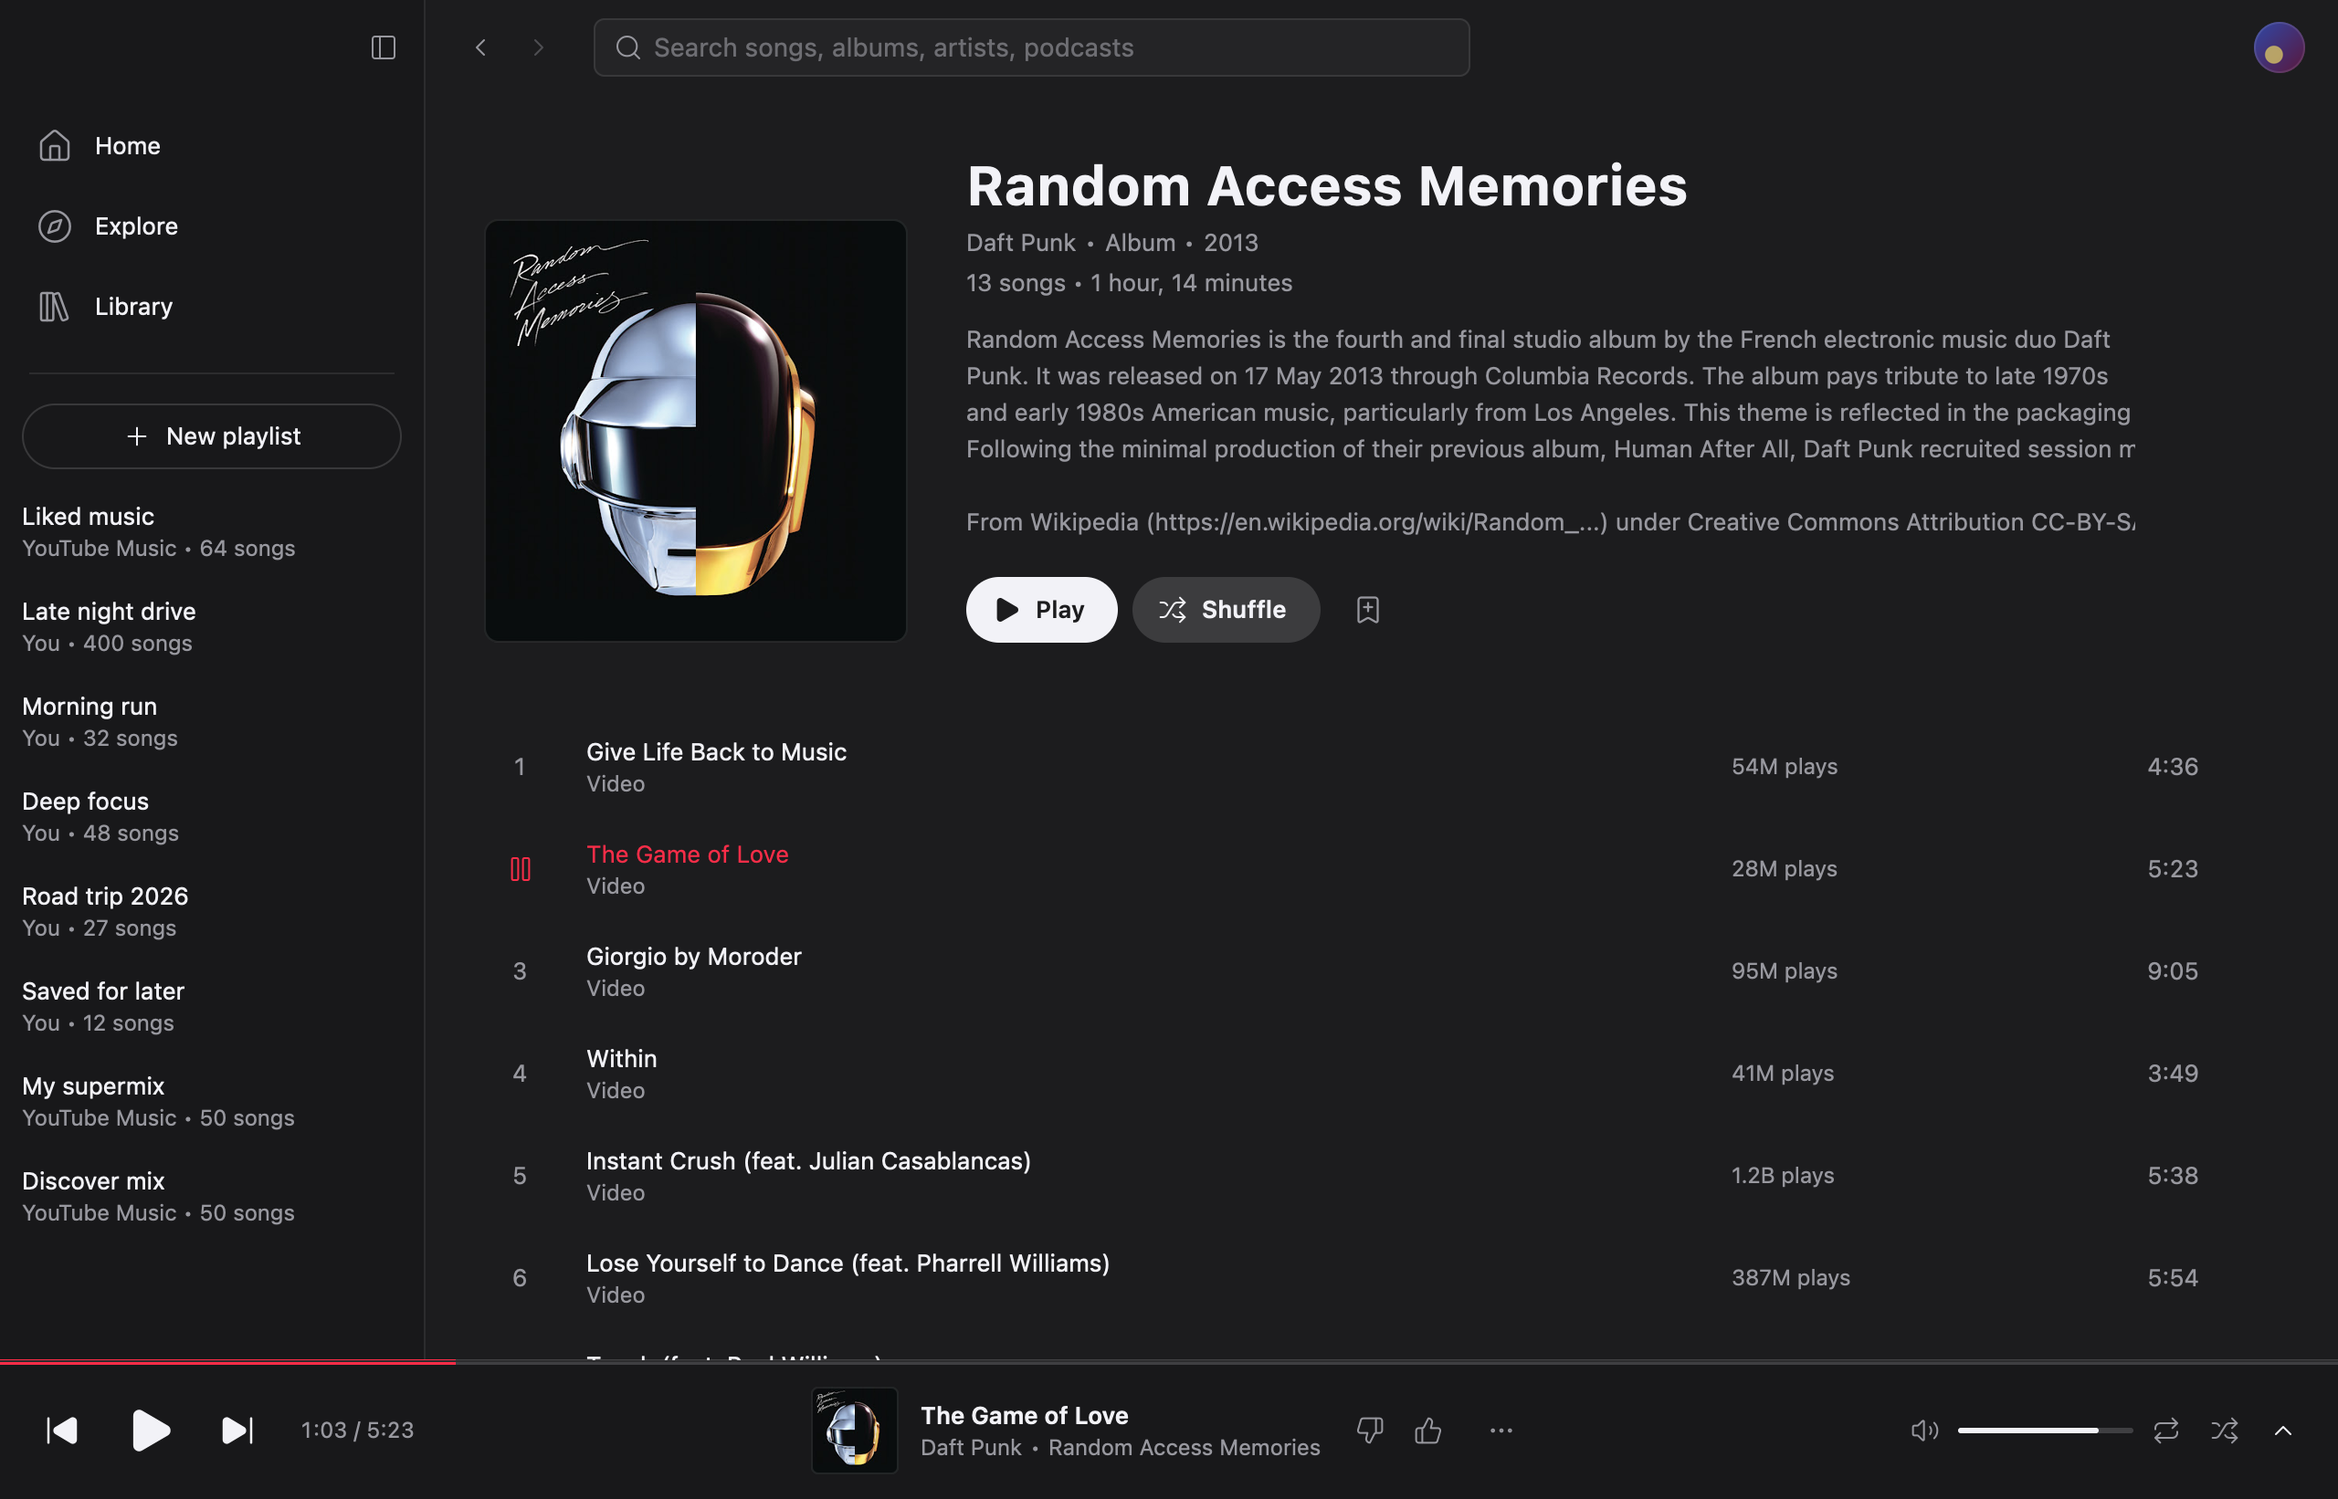
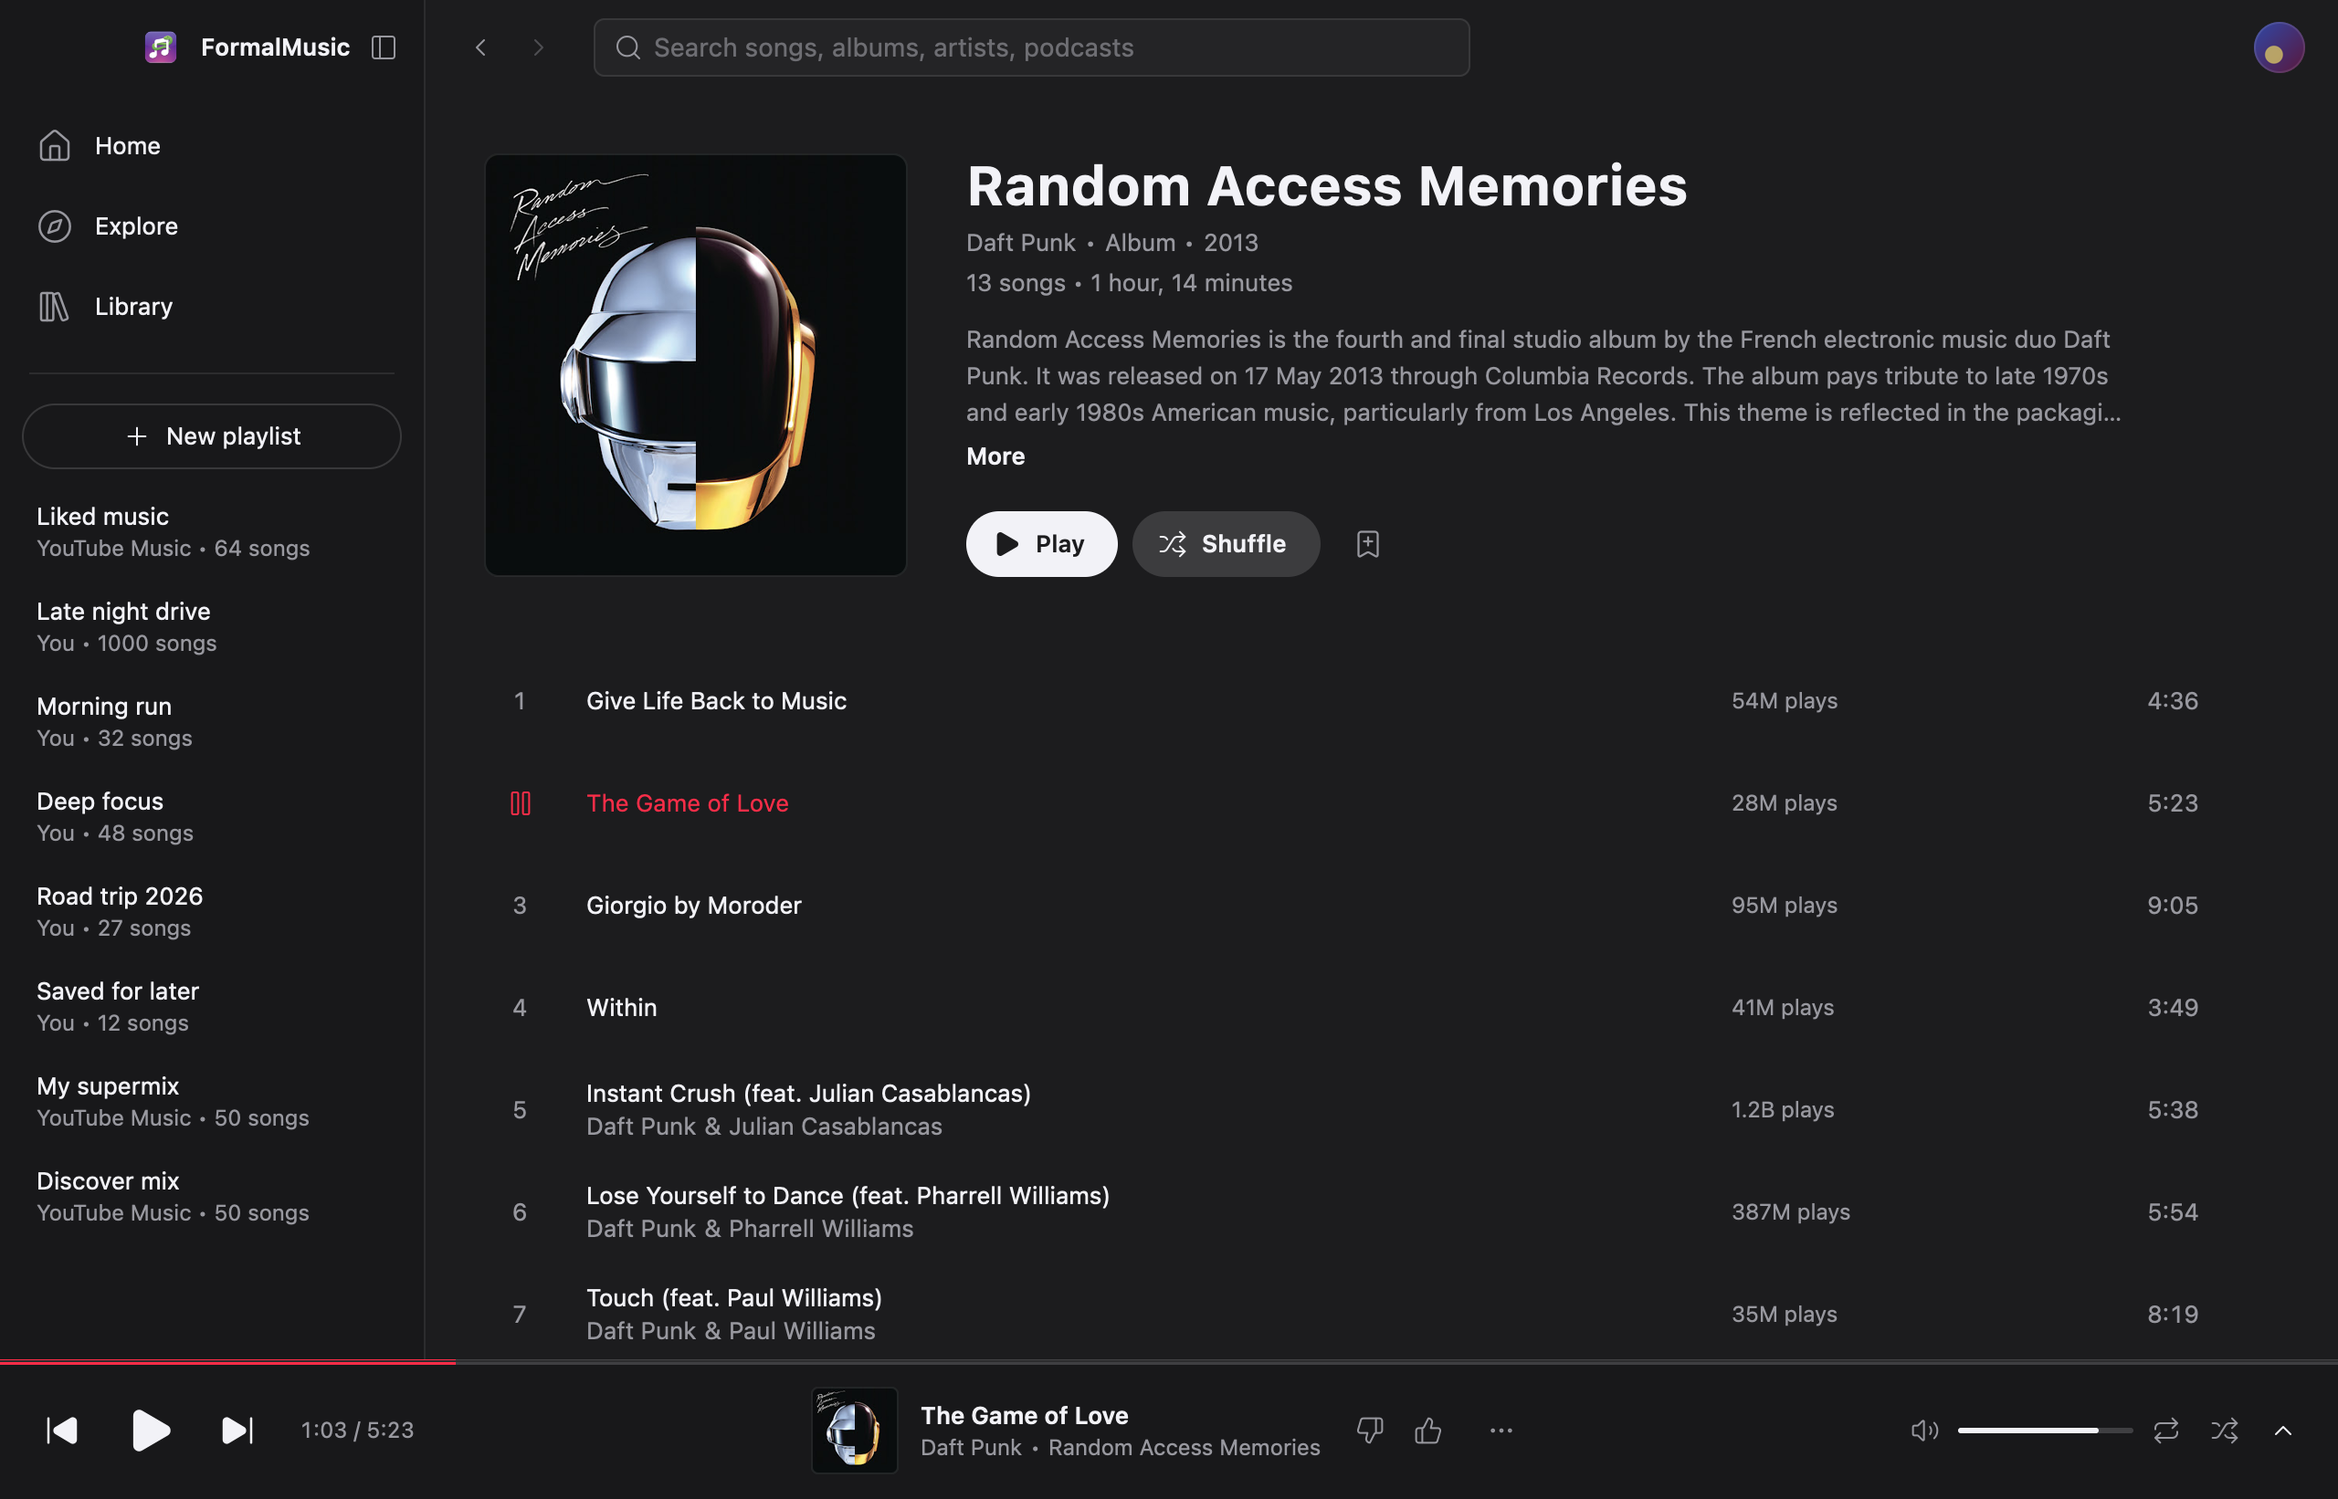
album rows are songs and show artists only when they differ, clamp header descriptions with More

diff --git a/crates/desktop/src/header.rs b/crates/desktop/src/header.rs
@@ -1,6 +1,8 @@
 //! Page headers in YouTube Music's three shapes: Detail (album, single,
 //! playlist), Artist (a full-bleed banner) and a plain Title.
 
+use std::rc::Rc;
+
 use formalmusic_api::{Header, Link, PlaySource, Rating};
 use formalmusic_core::MusicStore;
 use gpui_kit::prelude::FluentBuilder as _;
@@ -14,8 +16,24 @@ use crate::theme::{PAGE_INSET, Palette, radius, spacing, type_scale, with_alpha}
 
 const DETAIL_ART: Pixels = px(232.);
 const BANNER_HEIGHT: Pixels = px(340.);
+/// The description's measure, and how many lines it shows until "More".
+const DESCRIPTION_WIDTH: Pixels = px(640.);
+const DESCRIPTION_LINES: usize = 3;
 
-pub fn header(header: &Header, store: &MusicStore, palette: Palette, width: Pixels) -> AnyElement {
+/// Whether the album or playlist description is expanded, and how to flip it.
+pub struct Description {
+    pub open: bool,
+    pub toggle: Rc<dyn Fn(&mut App)>,
+}
+
+pub fn header(
+    header: &Header,
+    store: &MusicStore,
+    palette: Palette,
+    description_state: Description,
+    window: &mut Window,
+) -> AnyElement {
+    let width = window.viewport_size().width;
     match header {
         Header::Detail {
             title,
@@ -144,17 +162,8 @@ pub fn header(header: &Header, store: &MusicStore, palette: Palette, width: Pixe
                         .when_some(second_subtitle.clone(), |el, text| {
                             el.child(caption(text, palette.secondary))
                         })
-                        .when_some(description.as_deref().map(one_paragraph), |el, text| {
-                            el.child(
-                                div()
-                                    .pt(spacing::X2)
-                                    .max_w(px(640.))
-                                    .text_size(type_scale::BODY.font_size)
-                                    .line_height(px(20.))
-                                    .text_color(palette.secondary)
-                                    .line_clamp(3)
-                                    .child(text),
-                            )
+                        .when_some(description.as_deref(), |el, text| {
+                            el.child(detail_description(text, description_state, palette, window))
                         })
                         .child(actions),
                 )
@@ -297,6 +306,7 @@ pub fn header(header: &Header, store: &MusicStore, palette: Palette, width: Pixe
                                     .line_height(px(20.))
                                     .text_color(palette.secondary)
                                     .line_clamp(2)
+                                    .text_ellipsis()
                                     .child(text),
                             )
                         })
@@ -484,8 +494,89 @@ pub fn rating_buttons(
         )
 }
 
-/// Descriptions come with blank lines and a source note; the header shows
-/// the first paragraph only, clamped.
+/// An album or playlist description: the first paragraph clamped to a few
+/// lines with an ellipsis, and "More" to read all of it, source note
+/// included, when there is more to read.
+fn detail_description(
+    text: &str,
+    state: Description,
+    palette: Palette,
+    window: &mut Window,
+) -> AnyElement {
+    let first = one_paragraph(text);
+    let more = first.len() < text.trim_end().len()
+        || wrapped_lines(&first, type_scale::BODY.font_size, window) > DESCRIPTION_LINES;
+    let body = div()
+        .max_w(DESCRIPTION_WIDTH)
+        .text_size(type_scale::BODY.font_size)
+        .line_height(px(20.))
+        .text_color(palette.secondary);
+    let body = if state.open {
+        body.flex().flex_col().gap(spacing::X2).children(
+            text.split("\n\n")
+                .map(|paragraph| paragraph.replace('\n', " ")),
+        )
+    } else {
+        body.line_clamp(DESCRIPTION_LINES)
+            .text_ellipsis()
+            .child(first)
+    };
+    let toggle = state.toggle;
+    div()
+        .pt(spacing::X2)
+        .flex()
+        .flex_col()
+        .items_start()
+        .gap(spacing::X1)
+        .child(body)
+        .when(more, |el| {
+            el.child(
+                div()
+                    .id("description-more")
+                    .cursor_pointer()
+                    .text_size(type_scale::BODY.font_size)
+                    .line_height(px(20.))
+                    .font_weight(FontWeight::SEMIBOLD)
+                    .text_color(palette.text)
+                    .hover(|style| style.underline())
+                    .on_click(move |_, _, cx| toggle(cx))
+                    .child(if state.open { "Less" } else { "More" }),
+            )
+        })
+        .into_any_element()
+}
+
+/// Lines `text` wraps to at the description's measure.
+fn wrapped_lines(text: &str, font_size: Pixels, window: &mut Window) -> usize {
+    let font = window.text_style().font();
+    let run = TextRun {
+        len: text.len(),
+        font,
+        color: Hsla::default(),
+        background_color: None,
+        underline: None,
+        strikethrough: None,
+    };
+    window
+        .text_system()
+        .shape_text(
+            text.to_owned().into(),
+            font_size,
+            &[run],
+            Some(DESCRIPTION_WIDTH),
+            None,
+        )
+        .map(|lines| {
+            lines
+                .iter()
+                .map(|line| line.wrap_boundaries().len() + 1)
+                .sum()
+        })
+        .unwrap_or(0)
+}
+
+/// Descriptions come with blank lines and a source note; the clamped header
+/// shows the first paragraph only.
 fn one_paragraph(text: &str) -> String {
     text.split("\n\n").next().unwrap_or(text).replace('\n', " ")
 }

diff --git a/crates/desktop/src/page.rs b/crates/desktop/src/page.rs
@@ -9,7 +9,7 @@ use std::rc::Rc;
 use std::sync::Arc;
 
 use formalmusic_api::{
-    BrowseTarget, Chip, Header, Item, LibraryTab, Page, PlaySource, SearchFilter, Section,
+    BrowseTarget, Chip, Header, Item, LibraryTab, Link, Page, PlaySource, SearchFilter, Section,
     SectionLayout,
 };
 use formalmusic_core::{MusicStore, Route, SearchKey};
@@ -83,6 +83,8 @@ struct Rows {
     loading_more: bool,
     has_more: bool,
     env: Option<Env>,
+    /// The header's description is expanded past its clamp.
+    description_open: bool,
 }
 
 pub struct PageView {
@@ -126,6 +128,7 @@ impl PageView {
             loading_more: false,
             has_more: false,
             env: None,
+            description_open: false,
         }));
         let this = Self {
             route,
@@ -347,6 +350,7 @@ impl PageView {
             loading_more,
             has_more,
             env,
+            description_open,
         } = &mut *guard;
         let (Some(content), Some(env), Some(row)) =
             (content.clone(), env.clone(), rows.get(index).copied())
@@ -362,12 +366,27 @@ impl PageView {
             }) as Rc<dyn Fn(&mut App)>
         };
         match row {
-            Row::Header => crate::header::header(
-                content.header().expect("header row"),
-                &env.store,
-                palette,
-                window.viewport_size().width,
-            ),
+            Row::Header => {
+                let page = page.clone();
+                let description = crate::header::Description {
+                    open: *description_open,
+                    toggle: Rc::new(move |cx: &mut App| {
+                        let _ = page.update(cx, |this, cx| {
+                            let open = &mut this.shared.borrow_mut().description_open;
+                            *open = !*open;
+                            this.list.remeasure_items(index..index + 1);
+                            cx.notify();
+                        });
+                    }),
+                };
+                crate::header::header(
+                    content.header().expect("header row"),
+                    &env.store,
+                    palette,
+                    description,
+                    window,
+                )
+            }
             Row::Chips => {
                 let on_select: Rc<dyn Fn(&Chip, &mut App)> = match route {
                     Route::Search(key) => {
@@ -453,13 +472,21 @@ impl PageView {
                 let id = ElementId::NamedInteger(format!("row-{section}").into(), item as u64);
                 match &shelf.items[item] {
                     Item::Track(track) => {
-                        let numbered =
-                            matches!(route, Route::Browse(BrowseTarget::Album(_))).then_some(item);
+                        let album = matches!(route, Route::Browse(BrowseTarget::Album(_)));
+                        let album_artists: Vec<Link> = match content.header() {
+                            Some(Header::Detail { subtitle, .. }) if album => subtitle
+                                .iter()
+                                .filter(|link| matches!(link.target, Some(BrowseTarget::Artist(_))))
+                                .cloned()
+                                .collect(),
+                            _ => Vec::new(),
+                        };
                         let on_play = play_from(&content, route, section, item, &env.store);
                         shelves::track_row(
                             track,
                             id,
-                            numbered,
+                            album.then_some(item),
+                            &album_artists,
                             &env,
                             on_play,
                             window.viewport_size().width > px(1100.),

diff --git a/crates/desktop/src/shelves.rs b/crates/desktop/src/shelves.rs
@@ -5,7 +5,7 @@
 
 use std::rc::Rc;
 
-use formalmusic_api::{Chip, Item, Rating, Section, Track};
+use formalmusic_api::{Chip, Item, Link, Rating, Section, Track};
 use formalmusic_core::MusicStore;
 use formalmusic_core::format::{byline, duration, names};
 use gpui_kit::prelude::FluentBuilder as _;
@@ -575,12 +575,14 @@ fn row_art(
         .into_any_element()
 }
 
-/// One row of an album, playlist or song list. `number` replaces the cover
-/// with the track number, as album pages show it.
+/// One row of an album, playlist or song list. On an album page `number`
+/// replaces the cover with the track number, and the artists show only when
+/// they are not the album's own, as the web app does.
 pub fn track_row(
     track: &Track,
     id: ElementId,
     number: Option<usize>,
+    album_artists: &[Link],
     env: &Env,
     on_play: Rc<dyn Fn(&mut App)>,
     wide: bool,
@@ -676,8 +678,7 @@ pub fn track_row(
             div()
                 .w(relative(0.3))
                 .min_w(px(0.))
-                .overflow_hidden()
-                .whitespace_nowrap()
+                .truncate()
                 .text_size(type_scale::BODY.font_size)
                 .text_color(palette.secondary)
                 .child(link_text(
@@ -729,7 +730,9 @@ pub fn track_row(
                         )
                         .when(track.explicit, |el| el.child(explicit_badge(&palette))),
                 )
-                .when(!wide || number.is_none(), |el| el.child(artists)),
+                .when(number.is_none() || track.artists != album_artists, |el| {
+                    el.child(artists)
+                }),
         )
         .children(album)
         .when_some(

diff --git a/crates/innertube/src/parse/page.rs b/crates/innertube/src/parse/page.rs
@@ -9,7 +9,7 @@ use super::shelves::{section, sections};
 use super::{continuation, continuation_item, missing, renderer, text};
 use crate::Result;
 use formalmusic_api::{
-    BrowseTarget, Continuation, ContinuationPage, Header, Item, Link, Page, Section,
+    BrowseTarget, Continuation, ContinuationPage, Header, Item, Link, Page, Section, TrackKind,
 };
 use serde_json::Value;
 
@@ -80,6 +80,9 @@ pub fn parse_page(target: BrowseTarget, json: &Value) -> Result<Page> {
 
 /// Album rows leave out what the header already shows (album, artwork,
 /// artists). Tracks travel to the queue on their own, so they get it back.
+/// A row whose song has a music video links the video
+/// (`MUSIC_VIDEO_TYPE_OMV`), but the album lists it as a song, and so does
+/// the web app.
 fn fill_album_tracks(browse_id: &str, header: &Header, sections: &mut [Section]) {
     let Header::Detail {
         title,
@@ -108,6 +111,9 @@ fn fill_album_tracks(browse_id: &str, header: &Header, sections: &mut [Section])
                 }
                 if track.artists.is_empty() {
                     track.artists = artists.clone();
+                }
+                if track.kind == TrackKind::Video {
+                    track.kind = TrackKind::Song;
                 }
             }
         }

diff --git a/crates/innertube/tests/fixtures.rs b/crates/innertube/tests/fixtures.rs
@@ -279,6 +279,8 @@ fn album() {
             Some(BrowseTarget::Album("MPREb_K8qWMWVqXGi".into()))
         );
         assert!(t.set_video_id.is_some() && !t.artists.is_empty());
+        // Every row here links a music video; the album still lists songs.
+        assert_eq!(t.kind, TrackKind::Song, "{}", t.title);
     }
 }
 
